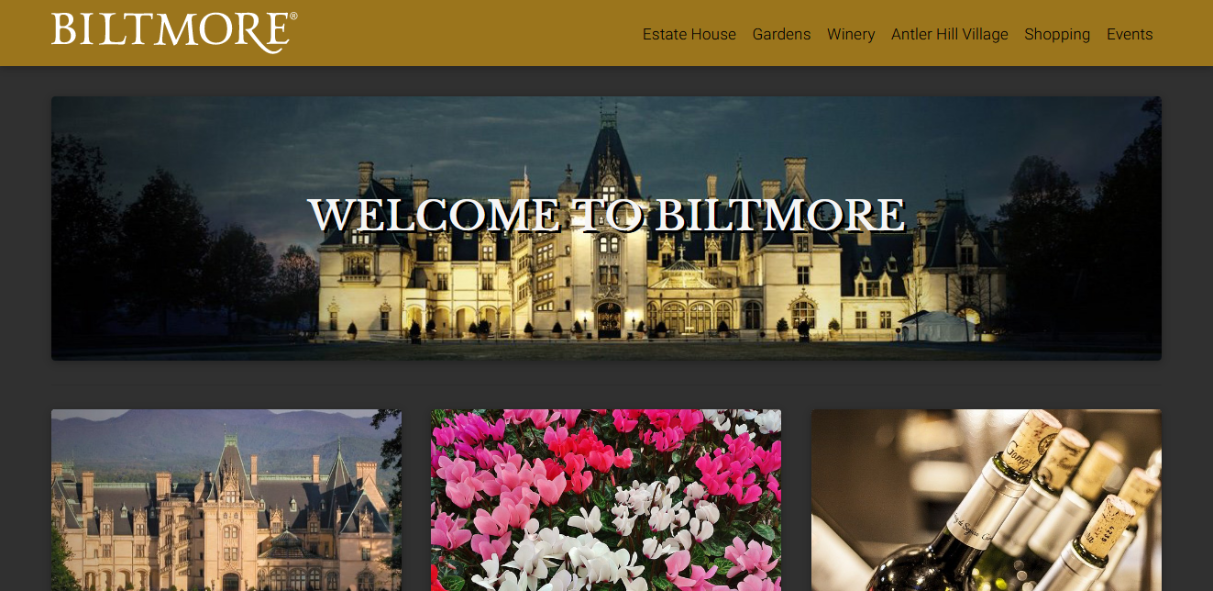
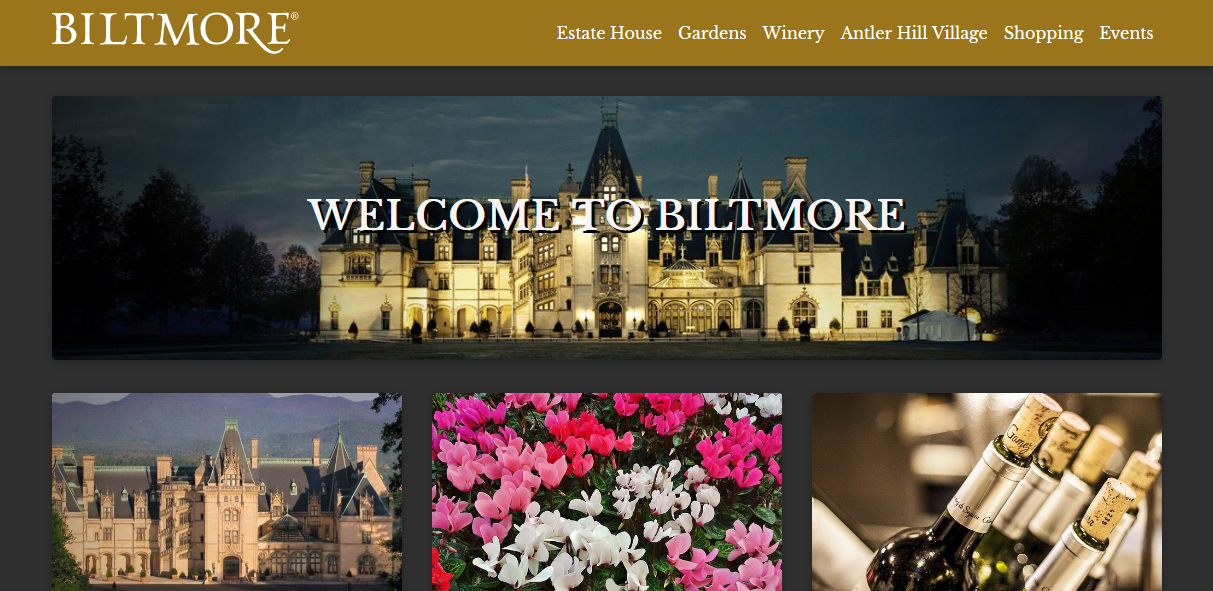
Updated screenshots and added nav menu

diff --git a/css/styles.css b/css/styles.css
@@ -86,6 +86,8 @@ article div, p, li {
 
 
 
+
+/* Specific Styles */
 header, section, footer {
 	min-height: 160px;
 	width: 1150px;
@@ -100,6 +102,79 @@ header, section, footer {
 	padding-top: 10%;
 	text-align: center;
 }
+
+/* Nav Styling */
+/* -------------------------------------------- */
+nav {
+	margin-top: 1em;
+}
+
+/* Removes bullets, sets inline/horizontal nav menu */
+nav ul {		
+    list-style: none; 
+    padding:0;
+    margin:0;
+	display: inline-block;
+}
+
+/* Makes each first level list item float left, and removes inherit margin */
+/* Works differently than setting as an inline-block would. */
+nav ul li { 	
+    float: left;
+	margin-left: 0;
+}
+
+/* Sets styling for the first-level menu items as anchor tags */
+nav ul li a {	
+	display: block;
+    background-color: #E7EFEB;
+    padding: 10px;
+    text-decoration: none;
+    color: #037171;
+    width: 120px; 
+}
+
+/* Hides dropdown when not hovered */
+nav li ul {		
+    display: none;
+}
+
+/* Shows the dropdown menu when hovering over first-level menu item */
+nav li:hover ul {
+    display: block; 
+    position: absolute; 
+}
+
+/* Removes floats from the dropdown list items when the dropdown menu is hovered over */
+nav li:hover li {
+    float: none; 
+}
+
+/* Sets style coloring for dropdown menu */
+nav li:hover a {
+    background-color: #F6F7F7; 
+	color: #303030;
+}
+
+/* When a dropdown menu is hovered over, sets the top level color style */
+nav li:hover .dropdown-menu {
+	background: deepskyblue;
+	color: #303030;
+}
+
+/* Sets style coloring for hover focus in dropdown menu items */
+nav ul li a:hover {	
+    background: deepskyblue;
+    color: white;
+}
+
+/* When a dropdown menu is hovered over, and the top level item is hovered, sets style */
+nav li:hover .dropdown-menu:hover {
+	color: white;
+	background-color: deepskyblue;
+}
+/* End Nav Styling */
+/* -------------------------------------------- */
 
 .projects {
 	background: #037171;
@@ -118,19 +193,19 @@ figure {
 }
 
 figcaption {
-	margin-top: 2px;
+	margin-top: .5%;
 }
 
 figure a {
-	padding: 4px;
-	background-color: #ceded7;
+	padding: 6px 20%;
+	background-color: #DAE7E1;
 	color: black;
-	border-radius: 5px;
+	border-radius: 2px;
 	text-decoration: none;
 }
 
 figure a:hover {
-	background-color: white;
+	background-color: #ECEFEE;
 }
 
 figure a:visited {
@@ -169,10 +244,21 @@ footer a:hover, footer a:focus, footer a:active {
 	font-size: .85em;	
 }
 
+
+@media only screen and (max-width: 500px) {
+	figure a {
+		padding: 3px 5px;
+	}
+}
+
+
 @media only screen and (max-width: 1150px) {
 	header, section, footer {
 		width: auto;
 		margin-left: 5%;
 		margin-right: 5%;
+	}
+	h1 {
+		font-size: 3em;
 	}
 }

diff --git a/index.html b/index.html
@@ -16,6 +16,43 @@
         <h2>Web Designer</h2>
 
         <p>Learning to build websites, one small step at a time.</p>
+			
+		<nav>
+			<ul>
+				<li><a href="#">Home</a>
+				</li>
+				<li><a href="#">About Me</a>
+				</li>
+				<li><a href="#" class="dropdown-menu">Services</a>
+					<ul>
+						<li><a href="#">Web Design</a>
+						</li>
+						<li><a href="#">Graphic Design</a>
+						</li>
+						<li><a href="#">Logo Design</a>
+						</li>
+					</ul>
+				</li>
+				<li><a href="#" class="dropdown-menu">Work Experience</a>
+					<ul>
+						<li><a href="#">Relevant Work Experience</a>
+						</li>
+						<li><a href="#">Other Work Experience</a>
+						</li>
+					</ul>
+				</li>
+				<li><a href="#" class="dropdown-menu">Contact Me</a>
+					<ul>
+						<li><a href="#">Phone</a>
+						</li>
+						<li><a href="#">Social Media</a>
+						</li>
+						<li><a href="#">Contact Form</a>
+						</li>
+					</ul>
+				</li>
+			</ul>	
+		</nav>
       </header>
 	  </div>
 
